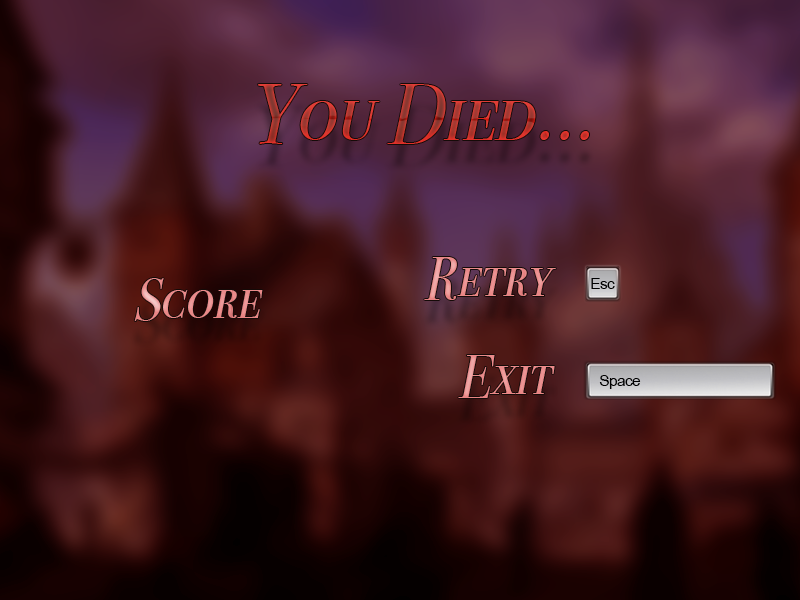
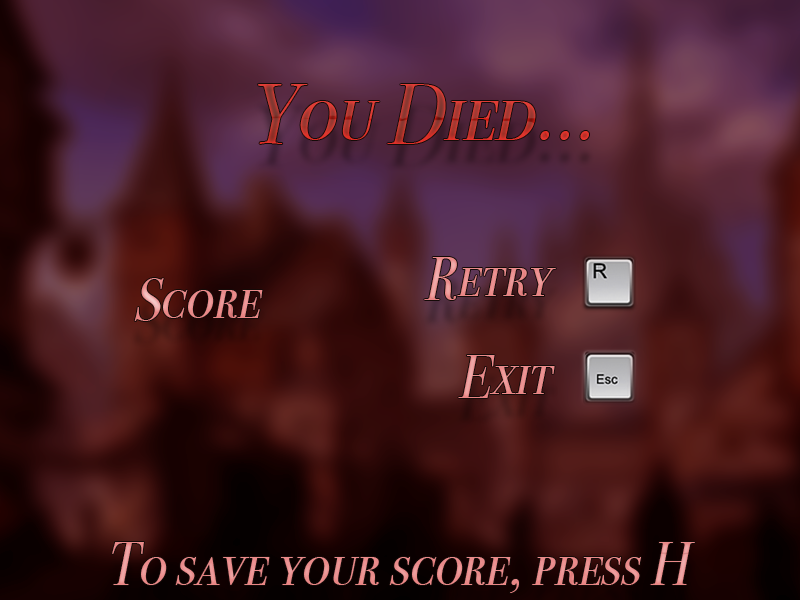
WE FCKNG DONE IT!!

Changed region(s): [[0.125, 0.9, 0.875, 0.99], [0.7188, 0.57, 0.9688, 0.69], [0.7188, 0.42, 0.8125, 0.54]]

diff --git a/core/src/com/academiadecodigo/gnunas/screens/HighScoreScreen.java b/core/src/com/academiadecodigo/gnunas/screens/HighScoreScreen.java
@@ -1,0 +1,105 @@
+package com.academiadecodigo.gnunas.screens;
+
+import com.academiadecodigo.gnunas.InHerHands;
+import com.badlogic.gdx.Gdx;
+import com.badlogic.gdx.Input;
+import com.badlogic.gdx.InputAdapter;
+import com.badlogic.gdx.ScreenAdapter;
+import com.badlogic.gdx.files.FileHandle;
+import com.badlogic.gdx.graphics.Texture;
+import com.badlogic.gdx.graphics.g2d.BitmapFont;
+import com.badlogic.gdx.graphics.g2d.SpriteBatch;
+import com.badlogic.gdx.graphics.g2d.freetype.FreeTypeFontGenerator;
+
+public class HighScoreScreen extends ScreenAdapter {
+
+    private final InHerHands game;
+    private Texture menuBackground;
+    private SpriteBatch batch;
+    FileHandle highscore;
+    String first,second,third,fourth,fifth;
+    private BitmapFont fontBit;
+    CharSequence str;
+
+    public HighScoreScreen(InHerHands game) {
+
+
+        this.game = game;
+
+        batch = new SpriteBatch();
+
+        menuBackground = new Texture(Gdx.files.internal("MenuScores.png"));
+        highscore = Gdx.files.local("highscores.txt");
+        String currentScores = highscore.readString();
+
+        String[] scores = currentScores.split("#");
+        first=scores[0];
+        second=scores[1];
+        third=scores[2];
+        fourth=scores[3];
+        fifth=scores[4];
+
+
+        FreeTypeFontGenerator generator = new FreeTypeFontGenerator(Gdx.files.internal("font2.ttf"));
+        FreeTypeFontGenerator.FreeTypeFontParameter parameter = new FreeTypeFontGenerator.FreeTypeFontParameter();
+        parameter.size = 40;
+        fontBit = generator.generateFont(parameter);
+
+
+
+
+
+
+    }
+
+
+    @Override
+    public void show() {
+
+
+    }
+
+    @Override
+    public void render(float delta) {
+
+        Gdx.input.setInputProcessor(new InputAdapter() {
+            @Override
+            public boolean keyDown(int keyCode) {
+                if (keyCode == Input.Keys.ESCAPE) {
+                    game.setScreen(new MenuScreen(game));
+                }
+                return true;
+            }
+        });
+
+
+        batch.begin();
+        batch.draw(menuBackground,0,0);
+
+
+        str = first;
+        fontBit.draw(batch, str, 330, 390);
+        str=second;
+        fontBit.draw(batch, str, 310, 330);
+        str=third;
+        fontBit.draw(batch, str, 300, 270);
+        str=fourth;
+        fontBit.draw(batch, str, 295, 210);
+        str=fifth;
+        fontBit.draw(batch, str, 280, 150);
+
+        batch.end();
+
+
+
+
+    }
+
+    @Override
+    public void dispose() {
+
+        menuBackground.dispose();
+        batch.dispose();
+
+    }
+}

diff --git a/core/src/com/academiadecodigo/gnunas/screens/GameOverScreen.java b/core/src/com/academiadecodigo/gnunas/screens/GameOverScreen.java
@@ -62,7 +62,7 @@ public class GameOverScreen extends ScreenAdapter {
     @Override
     public void render(float delta) {
 
-        if(Gdx.input.isKeyPressed(Input.Keys.SPACE)){
+        if(Gdx.input.isKeyPressed(Input.Keys.R)){
             game.setScreen(new PlayingScreen(game));
         }
         if(Gdx.input.isKeyPressed(Input.Keys.ESCAPE)){
@@ -77,7 +77,6 @@ public class GameOverScreen extends ScreenAdapter {
         drawTimer(batch, score);
         batch.end();
 
-        System.out.println(username);
 
 
 

diff --git a/core/src/com/academiadecodigo/gnunas/screens/MenuScreen.java b/core/src/com/academiadecodigo/gnunas/screens/MenuScreen.java
@@ -40,7 +40,7 @@ public class MenuScreen extends ScreenAdapter {
             game.setScreen(new PlayingScreen(game));
         }
         if(Gdx.input.isKeyPressed(Input.Keys.H)){
-            //game.setScreen(new MenuScreen(game));
+            game.setScreen(new HighScoreScreen(game));
         }
         if(Gdx.input.isKeyPressed(Input.Keys.I)){
             game.setScreen(new InstructionsScreen(game));

diff --git a/core/src/com/academiadecodigo/gnunas/player/Player.java b/core/src/com/academiadecodigo/gnunas/player/Player.java
@@ -112,7 +112,6 @@ public class Player extends Sprite {
 
         if(Gdx.input.isKeyPressed(Input.Keys.SPACE)){
 
-            System.out.println(decision);
             if (decision == PlayingScreen.HerDecision.SHOOT){
                 game.shootBullet();
             }

diff --git a/core/src/com/academiadecodigo/gnunas/screens/HighScoreInput.java b/core/src/com/academiadecodigo/gnunas/screens/HighScoreInput.java
@@ -163,7 +163,7 @@ public class HighScoreInput extends ScreenAdapter {
             public void canceled() {
 
             }
-        }, ola, ola, ola);
+        }, "Name yourself", "batata", "batata");
     }
 
     @Override
